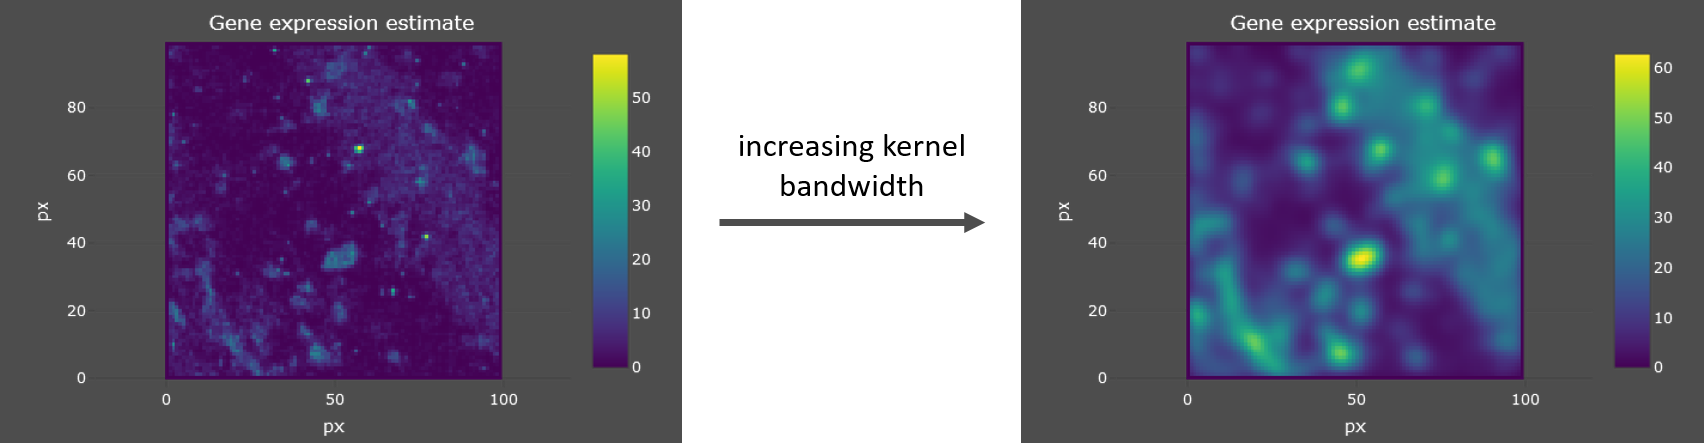
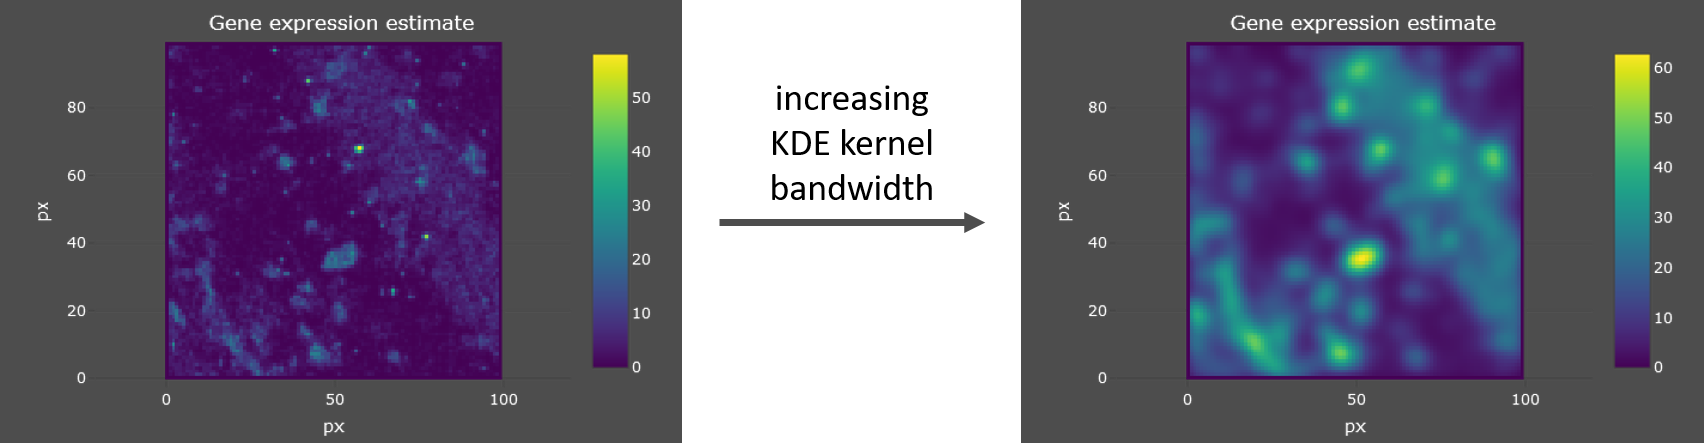
updated parameter names

Changed region(s): [[0.4354, 0.3815, 0.5599, 0.4695], [0.4354, 0.2935, 0.5599, 0.3521], [0.4354, 0.2054, 0.5599, 0.2641]]

diff --git a/index.html b/index.html
@@ -98,17 +98,15 @@
                     <img src="resources/imgs/tutorial/coordinate_prev.png" style="height: 100px">
                     <p>
                         The file contains three columns: The first one contains the molecule label, the other two
-                        contain X,Y-coordinates per molecule. The column names do not matter, but you need to keep their
-                        order if
-                        you work with your own data.
+                        contain x,y-coordinates per molecule. The column names do not matter, but you need to keep their
+                        order if you work with your own data.
                     </p>
                     <p>
-                        It's now time to upload the data! Click on the 'coordinates' button on the right and select
-                        <i>coordinates.csv</i>
-                        for the upload.
+                        It's now time to upload the data! Click on the 'Coordinates' button on the right and select
+                        the <i>coordinates.csv</i> for the upload.
                     </p>
                     <p>
-                        <a id="button-tutorial-close-2" class="btn btn-lg btn-secondary btn-close"> Close</a>
+                        <a id="button-tutorial-close-2" class="btn btn-lg btn-secondary btn-close">Close</a>
                         <a href="#section-data-title" id="button-tutorial-next-2"
                             class="btn btn-lg btn-secondary btn-next">
                             Next</a>
@@ -137,11 +135,11 @@
                 <div id="tutorial-modal-data-sigs" class="modal-content">
                     <p> The <i>signatures.csv</i> is formated as follows:
                         <img src="./resources/imgs/tutorial/signatures_prev.png" style="height: 120px;"><br>
-                        The table contains cell-wise expression expectations, with columns showing mRNA class and rows
+                        The table contains cell type-wise expression expectations, with columns showing mRNA class and rows
                         showing cell types.
                     </p>
 
-                    <p>Upload <i>signatures.csv</i> to inspect the data.</p>
+                    <p>Click on 'Signatures' to upload the <i>signatures.csv</i> and inspect the data.</p>
                     <p>
                         <a id="button-tutorial-close-4" class="btn btn-lg btn-secondary btn-close"> Close</a>
                         <a id="button-tutorial-next-4" class="btn btn-lg btn-secondary btn-next"
@@ -169,7 +167,7 @@
                                                 style="position: absolute; top: 55px; left: 35px; display: none;">
                                             </div>
                                         </div>
-                                        <h5>coordinates</h5>
+                                        <h5>Coordinates</h5>
                                     </div>
                                 </label>
                             </form>
@@ -214,7 +212,7 @@
                                                 style="position: absolute; top: 55px; left: 35px; display: none;">
                                             </div>
                                         </div>
-                                        <h5>signatures</h5>
+                                        <h5>Signatures</h5>
                                     </div>
                                 </label>
                             </form>
@@ -237,15 +235,15 @@
                     <p>
                         SSAM-lite provides a <i>preview function</i> that processes small tissue sub-sets on the fly
                         to enable parameter optimization in real time.<br>
-                        Click <i>'Use preview generator for parameter search'</i> to enable it! <br>
+                        Click 'Use preview generator for parameter search' to enable it! <br>
                     </p>
                     <p>
                         The parameters to optimize are:
                     </p>
                     <ul>
-                        <li>Vector field width: The size of our discrete analysis area in pixels.</li>
+                        <li>Pixel width: The size of our discrete analysis and output area in pixels.</li>
                         <li>KDE kernel bandwidth: The 'smoothing factor' applied to the mRNA locations.</li>
-                        <li>Cell assignment threshold: Threshold for discarding areas with low expression signal.</li>
+                        <li>Expression threshold: Threshold for discarding areas with low expression signal.</li>
                     </ul>
                     <p>
                         We'll now have a look at each parameter in detail.
@@ -260,14 +258,11 @@
                 <div id="tutorial-modal-parameters-coordinates" class="modal-content">
                     <p> The coordinates preview on the left lets you chose the subset of the tissue to calculate the
                         preview on - simply click on the map to change it (but be patient as it might take a moment
-                        for the adjustment to be computed). </p>
-                    <p> Below you can set the size of the vector field matrix the mRNAs are projected on.
-                        A larger matrix makes for a high resolution result but increases the
-                        resource consumption.
+                        for the adjustment to be computed).
                     </p>
-                    <p>Select a tissue part that's suitable for parameter fitting and set a vector field width to fit
-                        your machine's memory.</p>
-
+                    <p> Below you can set the pixel width. This sets the size of the matrix the mRNAs are projected on.
+                        A larger value increases the resolution but more ressources will be required for the computations.
+                    </p>
                     <p>
                         <a id="button-tutorial-close-6" class="btn btn-lg btn-secondary btn-close"> Close</a>
                         <a href="#section-parameters-main" id="button-tutorial-next-6"
@@ -277,20 +272,20 @@
                 </div>
                 <div id="tutorial-modal-parameters-sigma" class="modal-content">
                     <p>
-                        Increasing the kernel bandwidth <i>'sigma'</i> (in pixels) creates a smooting effect between the
+                        Increasing the KDE kernel bandwidth (in &#956;m) creates a smooting effect between the
                         different mRNA spots, which integrates the mRNA signal. The center plot should help you
                         optimize the value.
                     </p>
                     <p>
-                        The rightmost plot shows the algorithm's final celltype assignment. <br>
-                        Chose a <i>sigma</i> large enough to eliminate unwanted noise and at the same time
+                        The rightmost plot shows the algorithm's final cell-type assignment. <br>
+                        Choose a <i>bandwidth</i> large enough to eliminate unwanted noise and at the same time
                         retain the desired structural detail in the result. <br>
-                        Chose the <i>threshold</i> to remove unwanted, low-signal areas from the result.
+                        Choose the <i>threshold</i> to remove unwanted, low-signal areas from the result.
                     </p>
                     <p>
-                        <a id="button-tutorial-close-7" class="btn btn-lg btn-secondary btn-close"> Close</a>
+                        <a id="button-tutorial-close-7" class="btn btn-lg btn-secondary btn-close">Close</a>
                         <a href="#section-analysis" id="button-tutorial-next-7"
-                            class="btn btn-lg btn-secondary btn-next"> Next</a>
+                            class="btn btn-lg btn-secondary btn-next">Next</a>
                     </p>
                 </div>
 
@@ -336,7 +331,7 @@
                         <div class="d-flex flex-column  slidecontainer">
                             <div class="d-flex  justify-content-center">
                                 <label for="vf-width" data-toggle="vf-width"
-                                    title="The size of our discrete analysis area in pixels">Vector field width
+                                    title="The size of our discrete analysis/output area in pixels">Pixel width
                                     <svg xmlns="http://www.w3.org/2000/svg" width="12" height="12" fill="currentColor"
                                         class="bi bi-question-circle-fill" viewBox="0 0 16 16">
                                         <path
@@ -347,7 +342,7 @@
                             <div class="d-flex p-2">
                                 <input type="number" id="vf-width" name="vf-width" min="1" value="500">
                             </div>
-                            <div class="d-flex  justify-content-center">
+                            <div class="d-flex justify-content-center">
                                 <div id="vf-size-information">total size: -</div>
                             </div>
                         </div>
@@ -355,7 +350,6 @@
                             <div class="d-flex  justify-content-center">
                                 <label for="KDE-bandwidth" data-toggle="KDE-bandwidth"
                                     title="The 'smoothing factor' applied to the mRNA locations">KDE kernel bandwidth
-                                    (sigma)
                                     <svg xmlns="http://www.w3.org/2000/svg" width="12" height="12" fill="currentColor"
                                         class="bi bi-question-circle-fill" viewBox="0 0 16 16">
                                         <path
@@ -367,14 +361,11 @@
                                 <input type="number" id="KDE-bandwidth" name="KDE-bandwidth" step="0.1" min="0.1"
                                     value="3">
                             </div>
-
                         </div>
-
                         <div class="d-flex flex-column  slidecontainer">
                             <div class="d-flex  justify-content-center">
                                 <label for="vf-width" data-toggle="threshold"
-                                    title="Threshold for discarding areas with low expression signal">Cell assignment
-                                    threshold
+                                    title="Threshold for discarding areas with low expression signal">Expression threshold
                                     <svg xmlns="http://www.w3.org/2000/svg" width="12" height="12" fill="currentColor"
                                         class="bi bi-question-circle-fill" viewBox="0 0 16 16">
                                         <path
@@ -388,17 +379,6 @@
 
                         </div>
 
-                        <!-- <div class="d-flex flex-column  slidecontainer" style="padding: 10px; border: 2px solid white;">
-                            <div class="d-flex flex-row  justify-content-between">
-                                <div class="p-1">0</div>
-                                <div id="indicatorSigma" class="p-1" style="color: rgb(34, 90, 153);">0</div>
-                                <div class="p-1">0</div>
-                            </div>
-                            <div class="d-flex p-2">
-                                <input type="range" min="1" max="100" value="50" class="slider" id="inputSigma">
-                            </div>
-                        </div> -->
-
                     </div>
                 </div>
             </div>
@@ -409,10 +389,11 @@
 
             <!-- section analysis-KDE -->
             <div id="tutorial-modal-analysis-KDE" class="modal-content">
-                <p>Now we can start with the <b>Analysis</b>: Click on the button on the left to run a
+                <p>Now we can start with the <b>Analysis</b>: Click on the button 'Run Kernel Density Estimation' to run a
                     kernel density estimation on your dataset.
                 </p>
-                <p>This is the computationally most expensive step and might take a few minutes.
+                <p>This is the computationally most expensive step and might take a minute depending on your dataset 
+                    and the chosen parameters.
                 </p>
                 <p>
                     <a id="button-tutorial-close-8" class="btn btn-lg btn-secondary btn-close"> Close</a>
@@ -434,16 +415,17 @@
                 <p>As a first step, we run a KDE that creates a density of mRNA expression.
                 </p>
                 <p class="lead">
-                <div id="btn-KDE" class="btn btn-lg btn-secondary">
-                    <div id="Progress-KDE Progress">
-                        <div id="Bar-KDE">
-                            Run Kernel Density Estimation
+                    <div id="btn-KDE" class="btn btn-lg btn-secondary">
+                        <div id="Progress-KDE Progress">
+                            <div id="Bar-KDE">
+                                Run Kernel Density Estimation
+                            </div>
                         </div>
                     </div>
-                </div>
+                </p>
             </div>
 
-            </p>
+            
             <div class="row, container-fluid">
                 <div id="vf-norm-preview" class="row, container-fluid" style="width: 80vw; height: 50vw;"></div>
             </div>
@@ -487,25 +469,15 @@
                             </div>
                         </div>
                     </div>
+                </p>
             </div>
 
-            </p>
             <div class="d-flex, flex-row, container-fluid">
                 <div id="celltypes-preview" class="d-flex flex-column container-fluid"
                     style="width: 80vw; height: 50vw;">
                     <div id="hoverinfo" class="d-flex align-self-start"></div>
                 </div>
             </div>
-
-            <!-- <p>
-            <div id="reset" class="d-flex flex-row container-fluid" >
-                <div id="btn-types" class="btn btn-lg btn-secondary">
-
-                    reload page
-
-                </div>
-            </div>
-            </p> -->
 
         </div>
 
@@ -514,11 +486,8 @@
         <div id="wrapper-reload">
             <div id="section-reload" class="row" style="height:30vh; width:100%"></div>
             <div class="section-main-space, row, container-fluid" , style="height:20vh;">
-
                 <div id="btn-reload" class="btn btn-lg btn-secondary">
-
                     Clear analysis
-
                 </div>
             </div>
         </div>

diff --git a/scripts/view.js b/scripts/view.js
@@ -212,7 +212,7 @@ function plotVfNorm(div, vfNorm, layoutVfNorm = {}) {
         ...layoutVfNorm
     }
 
-    Plotly.newPlot(div, data, layoutVfNorm, { editable: true, modeBarButtonsToRemove: ['autoScale2d'], displaylogo: false });
+    Plotly.newPlot(div, data, layoutVfNorm, { modeBarButtonsToRemove: ['autoScale2d'], displaylogo: false });
 
 };
 

diff --git a/docs/source/conf.py b/docs/source/conf.py
@@ -22,7 +22,7 @@ copyright = '2021, Niklas Müller-Bötticher, Naveed Ishaque, Roland Eils, Berli
 author = 'Niklas Müller-Bötticher'
 
 # The full version, including alpha/beta/rc tags
-release = '0.1'
+# release = '0.1'
 
 
 # -- General configuration ---------------------------------------------------

diff --git a/docs/source/usage.rst b/docs/source/usage.rst
@@ -15,11 +15,10 @@ Test Data
 If you want to follow our usage guide along with some sample data you can download a sample data set from
 Zenodo (https://zenodo.org/record/5517607).
 
-Three sample data sets are available:
+Two sample data sets are available:
 
 #. **Codeluppi_osmFISH**: an osmFISH dataset of the mouse somatosensory cortex from `Codeluppi et al., Nature methods, 2018 <https://www.nature.com/articles/s41592-018-0175-z>`__.
 #. **Tosti_ISS_Pancreas**: an ISS dataset of the human pancreas from `Tosti et al., Gastroenterology, 2021 <https://doi.org/10.1053/j.gastro.2020.11.010>`__.
-#. **Qian_ISS_CA1**: ISS datasets of the mouse hippocampal area CA1 from `Qian et al., Nature methods, 2020 <https://www.nature.com/articles/s41592-019-0631-4>`__.
 
 The datasets have been modified to fit the SSAM-lite input format. You can also find further information on the datasets
 (such as number of mRNA spots etc.) on Zenodo or the *README* file within each directory once you downloaded it.
@@ -157,16 +156,16 @@ however we will briefly describe the purpose and effect of the parameters
 that can be set by the user to obtain optimal results.
 
 
-Vector field width
-    The vector field width defines the horizontal pixel count of the output images.
+Pixel width
+    The pixel width defines the horizontal pixel count of the cell type map.
     This is necessary as the kernel density estimation (KDE) will be projected onto 
     discrete locations (the pixels).
 
-    A higher value will result in higher resolution but also in increased processing time and memory
-    as well as size of the output images.
+    A higher value will result in higher resolution but also in increased processing 
+    time and memory.
 
 
-KDE kernel bandwidth (sigma)
+KDE kernel bandwidth
     SSAM-lite uses a Gaussian kernel and the kernel bandwidth defines the "range" of 
     integration of data points (mRNA spots) for the KDE.
 
@@ -178,7 +177,7 @@ KDE kernel bandwidth (sigma)
         :alt: Screenshot of two different kernel bandwidth
 
 
-Cell assignment threshold
+Expression threshold
     This threshold is used to decide whether a pixel in the KDE projection belongs to
     a cell or not. 
     
@@ -187,16 +186,17 @@ Cell assignment threshold
 
     .. image:: ../res/imgs/Threshold_Optimization.png
         :width: 650
-        :alt: Screenshot of two cell assignment thresholds
+        :alt: Screenshot of two expression thresholds
 
 Parameter preview and adjustment
 --------------------------------
 
-Each of the parameters can be set in their respective field and applied by hitting *Enter*.
-For a more intuitive parameter selection you can open a preview by clicking "Use preview generator for parameter search".
+Each of the parameters can be set in their respective field. For a more intuitive parameter selection you can open a preview 
+by clicking "Use preview generator for parameter search".
 This will display the results of a subset of your data with the currently set parameters and lets you 
 interactively explore and tune your parameter set. To adjust the preview area click into the left-most plot and wait for
-the browser to recalculate (this might take a few moments).
+the browser to recalculate (this might take a few moments). When the "Live update" functionality is enabled the plots will 
+be updated automatically if you change any of the parameters.
 
 .. image:: ../res/imgs/ParameterPreview.png
   :width: 800
@@ -204,8 +204,8 @@ the browser to recalculate (this might take a few moments).
 
 Once you are happy with your choice you can proceed with the actual analysis.
 
-For our example analysis we are going to proceed with a *Vector field width* of 1500, a *KDE kernel bandwidth*
-of 2.5, and a *Cell assignment threshold* of 13.
+For our example analysis we are going to proceed with a *pixel width* of 1500, a *KDE kernel bandwidth*
+of 2.5, and an *expression threshold* of 13.
 
 
 Analysis

diff --git a/docs/source/installation.rst b/docs/source/installation.rst
@@ -19,7 +19,7 @@ Requirements
 ============
 
 SSAM-lite and SSAM-lite-server should run on all modern browsers supporting JavaScript
-and webGL. It has been verified to run on Firefox, Chrome, Edge and Safari.
+and WebGL. It has been verified to run on Firefox, Chrome, Edge and Safari.
 
 SSAM-lite requires an internet connection to access the TensorFlow.js (v2.0.0) 
 library.
@@ -36,7 +36,7 @@ SSAM-lite
 
 SSAM-lite is accesible via https://ssam-lite.netlify.app, and does not need to be installed.
 
-However, if you want to have a local copy of the code, installation is possible and 
+However, if you want to have a local copy of the code or run an older version, installation is possible and 
 could not be easier. You either clone the `GitHub repository <https://github.com/HiDiHlabs/ssam-lite>`__
 
 .. code-block:: bash

diff --git a/docs/source/quickstart.rst b/docs/source/quickstart.rst
@@ -33,8 +33,8 @@ Click on "Get going!"
 You are in the **Data Center** now. Click on "Coordinates" and select the *coordinates.csv* from the *Codeluppi_osmFISH* directory in the test data.
 Do the same for the "Signatures" (obviously use the *signature.csv* from the same directory this time, *duh!*)
 
-In the **Parameters** section leave the *Vector field wdith* at its default, set the *KDE kernel bandwidth* to 5 and the 
-*Cell assignment threshold* to 50.
+In the **Parameters** section leave the *pixel wdith* at its default, set the *KDE kernel bandwidth* to 5 and the 
+*expression threshold* to 50.
 
 The time is flying by so we head straight for **Analysis** without any further explanation and click on 
 "Run Kernel Density Estimation". Time for a short break now, this step might take a few seconds.
